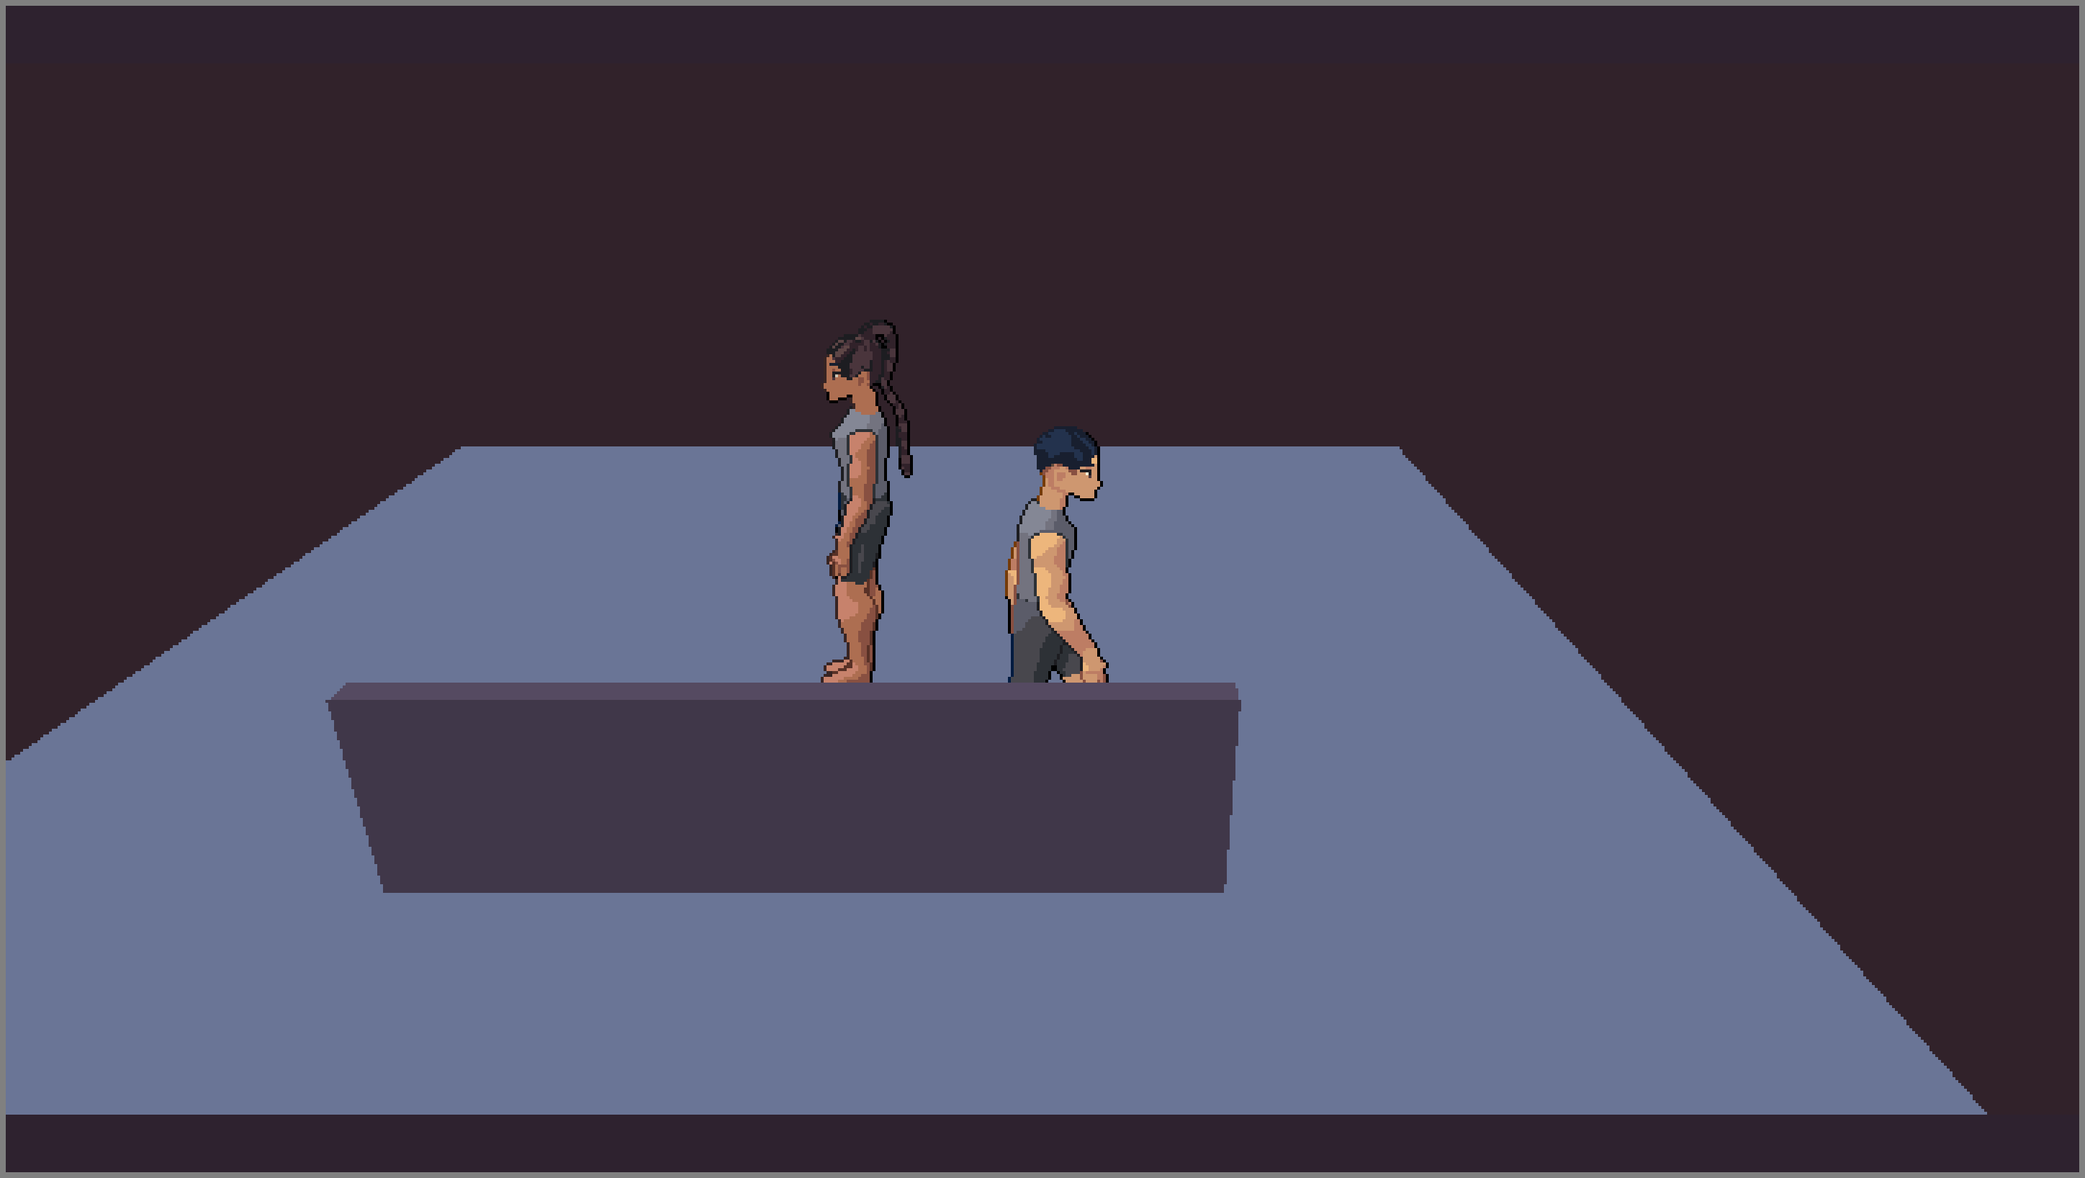
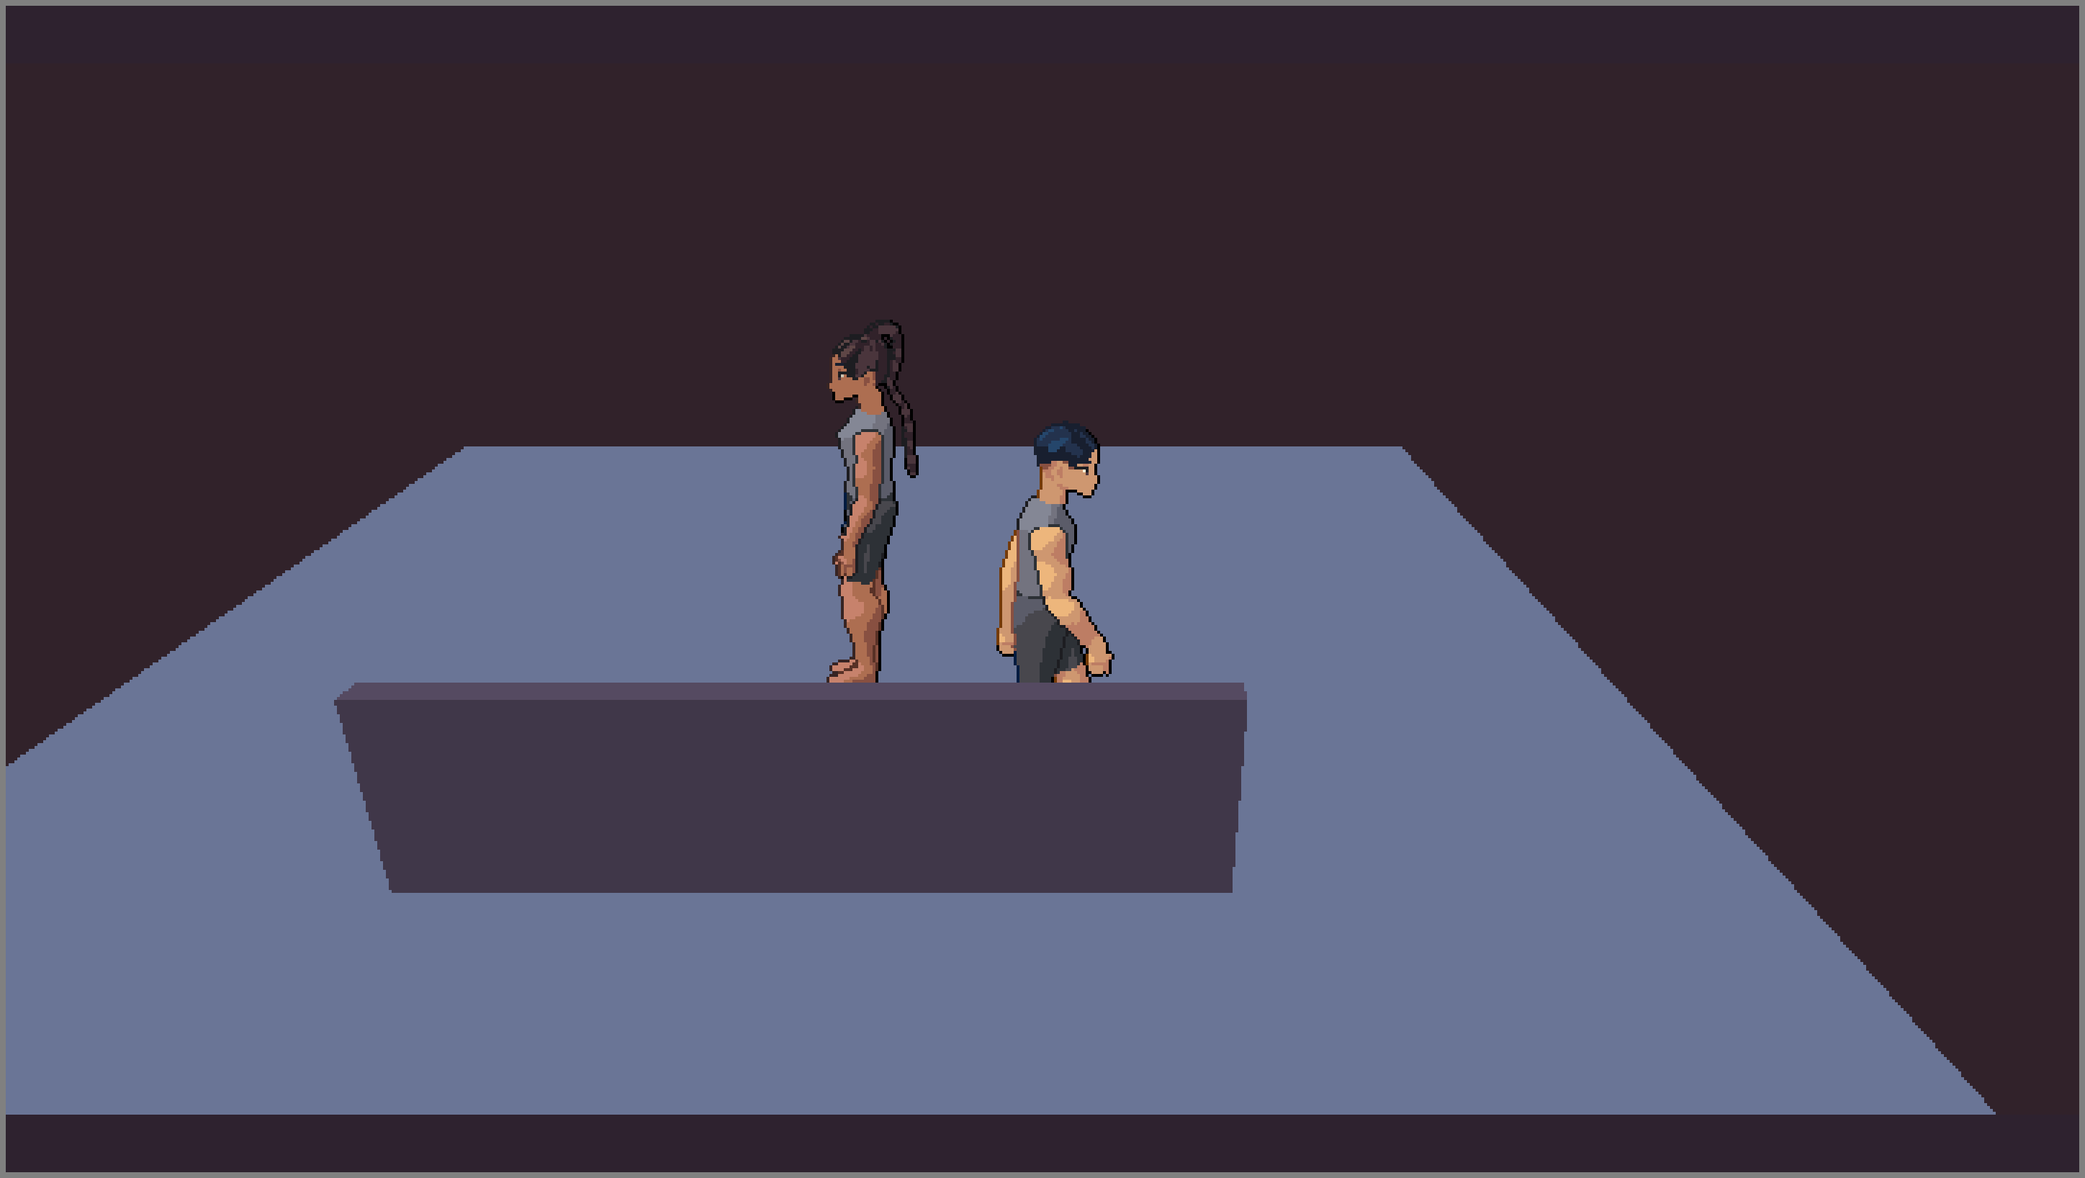
fix(character-kit): gate 1 compares the render with the builder's own idle cell, from the ground up
The stander is the builder's Figure standing idle, so which idle cell the first frame shows depends on the page's start. The gate now takes the best of 600 idle steps, counts the soles' texels the floor hides on their own line, and measures texels a pixel from the ground up (1.000). README, parity counts and header corrected from the artifacts.

Claude-Session: https://claude.ai/code/session_01HNdX7LQfcTAW3pQfTo5vEC

diff --git a/extensions/character-kit/scripts/gate.ts b/extensions/character-kit/scripts/gate.ts
@@ -2,7 +2,8 @@
 //
 //   pnpm --filter @automata/character-kit gate 1       gate 1: characterkit-painted before and after, texels a pixel, the
 //                                                      depth sheet (docs/refactor/c7/gate-1/)
-//   pnpm --filter @automata/character-kit gate runway  gate 2: the runway's stills, loop frames and timings (gate-2/)
+//   (gate 2, the runway's stills, loop frames and timings, is written with Task 10 of the plan, which is on hold: `gate runway`
+//   does not exist yet and asking for it throws)
 //
 // Gate 1's "before" is the commit this branch was cut from (BASE, the head of the figure-builder submodule branch), built in a
 // worktree of its own (`git worktree add`, then `pnpm install`: the builder's declarations are built at install and are
@@ -13,7 +14,14 @@ import { createReadStream, existsSync, mkdirSync, statSync, writeFileSync } from
 import { createServer } from 'node:http'
 import { extname, join } from 'node:path'
 import { type Browser, chromium, type Page } from 'playwright'
-import { BASE as FIGURES, member, standing } from '../src/shared/figure-builder/door.ts'
+import {
+  type CastMember,
+  cellOf,
+  BASE as FIGURES,
+  Figure,
+  member,
+  standing,
+} from '../src/shared/figure-builder/door.ts'
 
 const KIT = join(import.meta.dirname, '..')
 const REPO = join(KIT, '../..')
@@ -251,8 +259,8 @@ const crop = ({ width, rgba }: Frame, b: Box, pad: number): Frame => {
   return { width: w, height: h, rgba: out }
 }
 
-/** The painted rows of the builder's own cell, and its frame. */
-function cellRows(cell: Uint8ClampedArray, width: number): { rows: number; frame: Frame } {
+/** The painted rows of the builder's own cell, the first of them, and its frame. */
+function cellRows(cell: Uint8ClampedArray, width: number): { rows: number; first: number; frame: Frame } {
   const height = cell.length / 4 / width
   let [first, last] = [height, -1]
   for (let y = 0; y < height; y++) {
@@ -263,45 +271,148 @@ function cellRows(cell: Uint8ClampedArray, width: number): { rows: number; frame
       }
     }
   }
-  return { rows: last - first + 1, frame: { width, height, rgba: cell } }
+  return { rows: last - first + 1, first, frame: { width, height, rgba: cell } }
 }
 
-/** Of the stander's opaque texels, how many a render holds exactly one pixel each at the best offset near `box` (1 when the cell
- * is on the screen as the builder painted it). */
-function exactShare(render: Frame, cell: Frame, box: Box): number {
-  let best = 0
+/** How a render holds a cell the builder painted: the offset at which most of its opaque texels sit equal, one pixel each. */
+interface Match {
+  /** Opaque texels of the cell equal to the render's pixel under them, over all its opaque texels. */
+  share: number
+  same: number
+  opaque: number
+  /** Where the cell's top-left is in the render. */
+  ox: number
+  oy: number
+}
+
+/** The best offset for `cell` in `render` within `reach` pixels of `centre` (where the cell's painted texels would begin at the
+ * figure's `box`, when no centre is given). */
+function matchCell(
+  render: Frame,
+  cell: Frame,
+  box: Box,
+  centre?: readonly [number, number],
+  reach = 3,
+): Match {
   let opaque = 0
   for (let i = 3; i < cell.rgba.length; i += 4) if ((cell.rgba[i] ?? 0) > 0) opaque++
-  // Where the cell's top-left would be if its painted texels began at the figure's box, and a few pixels either way.
-  let [col, row] = [cell.width, cell.height]
-  for (let i = 0; i < cell.rgba.length / 4; i++) {
-    if ((cell.rgba[i * 4 + 3] ?? 0) === 0) continue
-    col = Math.min(col, i % cell.width)
-    row = Math.min(row, Math.floor(i / cell.width))
+  let [cx, cy] = centre ?? [0, 0]
+  if (centre === undefined) {
+    let [col, row] = [cell.width, cell.height]
+    for (let i = 0; i < cell.rgba.length / 4; i++) {
+      if ((cell.rgba[i * 4 + 3] ?? 0) === 0) continue
+      col = Math.min(col, i % cell.width)
+      row = Math.min(row, Math.floor(i / cell.width))
+    }
+    ;[cx, cy] = [box.x0 - col, box.y0 - row]
   }
-  for (let oy = box.y0 - row - 3; oy <= box.y0 - row + 3; oy++) {
-    for (let ox = box.x0 - col - 3; ox <= box.x0 - col + 3; ox++) {
-      let same = 0
-      for (let y = 0; y < cell.height; y++) {
-        for (let x = 0; x < cell.width; x++) {
-          const t = (y * cell.width + x) * 4
-          if ((cell.rgba[t + 3] ?? 0) === 0) continue
-          const px = ox + x
-          const py = oy + y
-          if (px < 0 || py < 0 || px >= render.width || py >= render.height) continue
-          const p = (py * render.width + px) * 4
-          if (
-            cell.rgba[t] === render.rgba[p] &&
-            cell.rgba[t + 1] === render.rgba[p + 1] &&
-            cell.rgba[t + 2] === render.rgba[p + 2]
-          )
-            same++
-        }
-      }
-      best = Math.max(best, same)
+  let best: Match = { share: 0, same: 0, opaque, ox: cx, oy: cy }
+  for (let oy = cy - reach; oy <= cy + reach; oy++) {
+    for (let ox = cx - reach; ox <= cx + reach; ox++) {
+      const same = countSame(render, cell, ox, oy, 0, cell.height)
+      if (same > best.same) best = { share: same / opaque, same, opaque, ox, oy }
     }
   }
-  return best / opaque
+  return best
+}
+
+/** Opaque texels of `cell` in rows `from` to `to` (exclusive) that equal the render's pixel under them at offset (`ox`, `oy`). */
+function countSame(render: Frame, cell: Frame, ox: number, oy: number, from: number, to: number): number {
+  let same = 0
+  for (let y = from; y < to; y++) {
+    for (let x = 0; x < cell.width; x++) {
+      const t = (y * cell.width + x) * 4
+      if ((cell.rgba[t + 3] ?? 0) === 0) continue
+      const [px, py] = [ox + x, oy + y]
+      if (px < 0 || py < 0 || px >= render.width || py >= render.height) continue
+      const p = (py * render.width + px) * 4
+      if (
+        cell.rgba[t] === render.rgba[p] &&
+        cell.rgba[t + 1] === render.rgba[p + 1] &&
+        cell.rgba[t + 2] === render.rgba[p + 2]
+      )
+        same++
+    }
+  }
+  return same
+}
+
+/** Idle steps tried: 10 s at the builder's own 1/60 s step, longer than any idle cycle shows a new pose in. */
+const IDLE_STEPS = 600
+
+/** The stander is the builder's `Figure` standing idle on the page's frame clock, and which idle step the first drawn frame
+ * lands on depends on how many 17 ms fake-clock steps the page took to start. So the render is compared with the builder's own
+ * idle cells, step by step, and the best is the one drawn for that frame: like for like, whatever the step. */
+function bestIdle(
+  cast: CastMember,
+  direction: number,
+  render: Frame,
+  box: Box,
+): { step: number; stepsAtBest: number; match: Match; cell: Frame; anchorY: number } {
+  const figure = new Figure(cast)
+  const view = { azimuth: 0, pitch: (18 * Math.PI) / 180 }
+  let best: { step: number; stepsAtBest: number; match: Match; cell: Frame; anchorY: number } | undefined
+  let centre: [number, number] | undefined
+  for (let step = 1; step <= IDLE_STEPS; step++) {
+    figure.update(1 / 60, { facing: (direction * Math.PI) / 4, moving: false, view })
+    const cell: Frame = { width: cast.cell[0], height: cast.cell[1], rgba: figure.painted.slice() }
+    // The first step finds the offset (a few pixels either way); the rest only look a pixel around it.
+    const match = matchCell(render, cell, box, centre, centre === undefined ? 3 : 1)
+    centre ??= [match.ox, match.oy]
+    if (best === undefined || match.share > best.match.share)
+      best = { step, stepsAtBest: 1, match, cell, anchorY: cellOf(figure).anchor[1] }
+    else if (match.share === best.match.share) best.stepsAtBest++
+  }
+  return best as NonNullable<typeof best>
+}
+
+/** The match of the stander's frame, read as the builder's contract has it: the ground is the cell's anchor row, and the room's
+ * floor (its top at the ground, nearer the camera than the soles' outline, which hangs a few centimetres below it) hides what is
+ * under it. Those texels are counted on their own line, and the texels a pixel are measured from the ground up, so the floor
+ * does not shorten the figure. */
+function groundReport(
+  render: Frame,
+  idle: ReturnType<typeof bestIdle>,
+  box: Box,
+  sheet: Match,
+): Record<string, unknown> {
+  const { cell, match, anchorY } = idle
+  // A texel row is under the ground when its middle is below the anchor.
+  const firstBelow = Math.floor(anchorY - 0.5) + 1
+  const { rows: paintedRows, first: firstPainted } = cellRows(cell.rgba, cell.width)
+  let belowOpaque = 0
+  for (let y = firstBelow; y < cell.height; y++)
+    for (let x = 0; x < cell.width; x++) if ((cell.rgba[(y * cell.width + x) * 4 + 3] ?? 0) > 0) belowOpaque++
+  const belowSame = countSame(render, cell, match.ox, match.oy, firstBelow, cell.height)
+  const aboveOpaque = match.opaque - belowOpaque
+  const aboveSame = match.same - belowSame
+  const rowsAbove = firstBelow - firstPainted
+  const pixelsAbove = match.oy + firstBelow - box.y0
+  return {
+    cellPaintedRows: paintedRows,
+    cellPitchDeg: 18,
+    // The whole figure, soles and all, the way the before side is measured.
+    texelsPerPixel: paintedRows / (box.y1 - box.y0 + 1),
+    // From the ground up: what the floor does not touch.
+    groundRow: anchorY,
+    cellRowsAboveGround: rowsAbove,
+    standerHeightAboveGroundPx: pixelsAbove,
+    texelsPerPixelAboveGround: rowsAbove / pixelsAbove,
+    // The builder's own idle cell this frame shows: the first step (of the builder's 1/60 s steps from standing still) that reaches
+    // the best share, and how many steps reach it (the idle moves slowly: a cell often holds for a few steps).
+    matchedIdleStep: idle.step,
+    matchedIdleSeconds: idle.step / 60,
+    idleStepsAtBest: idle.stepsAtBest,
+    opaqueTexels: match.opaque,
+    exactTexels: match.same,
+    exactTexelShare: match.share,
+    exactTexelShareAboveGround: aboveSame / aboveOpaque,
+    opaqueTexelsBelowGround: belowOpaque,
+    belowGroundTexelsSeen: belowSame,
+    belowGroundTexelsHiddenByFloor: belowOpaque - belowSame,
+    // For the record: the builder's `standing` cell (the idle's third step), the number the plan's log first gave.
+    exactTexelShareVsStanding: sheet.share,
+  }
 }
 
 async function gateOne(): Promise<void> {
@@ -339,20 +450,26 @@ async function gateOne(): Promise<void> {
         `${name}: expected two figures in the render, found ${boxes.length} ${JSON.stringify(boxes)}`,
       )
     const cast = member(woman, 2)
-    const { rows, frame: cell } = cellRows(standing(cast, 6, pitch), cast.cell[0])
     const heightPx = stander.y1 - stander.y0 + 1
-    measured[name] = {
+    const whole = {
       field: [frame.width, frame.height],
       figuresFound: boxes.length,
       standerBox: stander,
       standerHeightPx: heightPx,
-      cellPaintedRows: rows,
-      cellPitchDeg: pitch === undefined ? 18 : (pitch * 180) / Math.PI,
-      texelsPerPixel: rows / heightPx,
-      ...(name === 'after' ? { exactTexelShare: exactShare(frame, cell, stander) } : {}),
     }
     crops.push(crop(frame, stander, 6))
-    if (name === 'after') crops.push(cell)
+    if (name === 'before') {
+      // Whole figure, soles and all: the base tree has no floor to hide them, and no like-for-like cell to find (it minifies).
+      const { rows } = cellRows(standing(cast, 6, pitch), cast.cell[0])
+      measured[name] = { ...whole, cellPaintedRows: rows, cellPitchDeg: 25, texelsPerPixel: rows / heightPx }
+      continue
+    }
+    // The stander is the woman facing the camera's bearing: the builder's direction 6. The cell compared is the builder's own idle
+    // cell that this render's frame shows (bestIdle), and `standing` is the sheet's third idle step, kept for the record.
+    const idle = bestIdle(cast, 6, frame, stander)
+    const sheet = matchCell(frame, cellRows(standing(cast, 6), cast.cell[0]).frame, stander)
+    measured[name] = { ...whole, ...groundReport(frame, idle, stander, sheet) }
+    crops.push(idle.cell)
   }
   const [before, after, cell] = crops
   writeFileSync(
@@ -381,6 +498,15 @@ async function gateOne(): Promise<void> {
     },
   )
   if (sheets.status !== 0) throw new Error('the depth sheet failed')
+  // The records are committed, and the repo's formatter owns JSON: leave them the way a commit would.
+  spawnSync(
+    'pnpm',
+    ['exec', 'biome', 'format', '--write', join(out, 'measurements.json'), join(out, 'parity.json')],
+    {
+      cwd: REPO,
+      stdio: 'inherit',
+    },
+  )
 }
 
 const which = process.argv[2] ?? '1'

diff --git a/docs/refactor/c7/gate-1/README.md b/docs/refactor/c7/gate-1/README.md
@@ -7,7 +7,9 @@ this before the fashion work (tasks 6 to 8) goes on.
 Before is `a66b4e0e` (the head of `claude/figurebuilder-submodule`, which this branch was cut from), built in a worktree of its own;
 after is this branch. Both ran in Chromium under Playwright's fake clock with `reducedMotion: 'reduce'`, the viewport the field's own size
 so the letterbox's upscale is ×1 and the canvas holds the field's pixels, and the readback taken 33 ms of fake time after the
-first frame that shows the figures: the same sim tick (the first ticks of the walker's loop) on both sides.
+first frame that shows the figures. That is the walker's loop at the same tick on both sides, but not the stander's idle at the same
+step: she is the builder's `Figure` standing idle on the page's frame clock, and how many 17 ms fake-clock steps the page took to
+start is not fixed, so the gate finds the idle cell the render shows (below) instead of assuming one.
 
 ## The picture
 
@@ -25,13 +27,38 @@ first frame that shows the figures: the same sim tick (the first ticks of the wa
 
 | | painted rows of her cell | her height in pixels | texels a pixel |
 |---|---|---|---|
-| before (480 × 270, cell painted at the camera's 25°) | 123 | 69 | 1.78 |
-| after (720 × 405, cell painted at the painter's 18°) | 128 | 126 | 1.016 |
+| before (480 × 270, cell painted at the camera's 25°), whole figure | 123 | 69 | 1.78 |
+| after (720 × 405, cell painted at the painter's 18°), whole figure | 128 | 126 | 1.016 |
+| after, from the ground up (the anchor row, 178.5, to her top) | 125 | 125 | 1.000 |
+
+The three rows of her cell under the ground line (128 painted, 125 above it) are the soles' outline, and the room's floor (its top at
+the ground) is nearer the camera than they are, so it hides most of them: that is the depth rule at work (the builder's contract, section 4b),
+not a painter mismatch. Measured from the ground up the floor does not shorten her, and a texel is exactly a pixel. The before row
+measures the whole figure (there is no like-for-like cell to find in a minified render, so no ground is located in it).
 
 Before, a texel was minified: nearly two texels went into each pixel, so texels dropped out (the jagged outline of the left tile).
-After, a texel is a pixel: the figure is the builder's cell as it paints it. Of her 128-row cell, 99% of the opaque
-texels equal the builder's own `standing` cell pixel for pixel at the best offset (the rest is the idle pose's blink and hair at a
-different moment than the sheet's three steps). The unit test `painted-scale` gives the same from `zoomOf`: 0.67 a pixel at 480 × 270,
+After, a texel is a pixel: the figure is the builder's cell as it paints it.
+
+### Her cell against the builder's own
+
+She is drawn by the builder's `Figure` standing idle, so the cell the first drawn frame shows is one of the idle's cells, which move
+with the figure's own clock (breath, weight shift). The gate compares the render with each of the builder's idle cells (600 steps of
+1/60 s from standing still) at the best offset and takes the best, so the comparison is like for like at whatever step the frame
+landed on. In `measurements.json` (`after`):
+
+| | texels | share |
+|---|---|---|
+| opaque texels of the best idle cell (first step: 1, of 4 steps at this share; the sheet's `standing` is step 3) | 2354 | |
+| equal to the render's pixel, one pixel each, at the best offset | 2327 | 98.85% |
+| of those, below the ground line | 45 | |
+| below the ground line, seen | 18 | |
+| below the ground line, hidden by the floor | 27 | |
+| **above the ground line: equal to the render** | all of them | **100%** |
+
+So the 98.85% is not the painter: every texel above the ground is the builder's to the byte, and the 27 that differ are the soles
+under the floor. (The plan's log gave 91% and an earlier version of this README 99%: the render against the sheet's `standing` cell, which is one
+idle step, so the number depends on which step the frame landed on. This run's `standing` share, `exactTexelShareVsStanding`, equals
+the best.) The unit test `painted-scale` gives the same from `zoomOf`: 0.67 a pixel at 480 × 270,
 0.90 at 640 × 360, 1.01 at 720 × 405 (the coordinator's ruling, never minified).
 
 ## Parity with the builder's `compose` (the depth sheet)
@@ -44,11 +71,11 @@ frame, and red where they differ (the sheets are all dark, so none). Counts, in 
 | one figure, orthographic at 18° | 230400 | 0 |
 | one figure, perspective (the follow view) | 230400 | 0 |
 | two overlapping figures | 230400 | 0 |
-| a figure cut by a wall | 230400 | 0 |
+| a figure cut by a wall | 228480 | 0 |
 
 Case 3 is two overlapping figures (the nearer in front, the other's body behind her arm); case 4 a figure cut by a thin wall whose front face
 is 5 cm in front of the figure's root plane, so some of her stands in front of the wall and the rest behind it, by texel (a pixel either side
-of the cut line is not compared, where two surfaces cross). The same cases run as tests in `tests/browser/painted/painted-depth.test.ts`, which a
+of the cut line, 3 rows of 640, is not compared, where two surfaces cross). The same cases run as tests in `tests/browser/painted/painted-depth.test.ts`, which a
 flat-depth mutation fails (cases 3 and 4).
 
 ## What changed, and why
@@ -62,5 +89,7 @@ flat-depth mutation fails (cases 3 and 4).
 
 ## What ran, and what did not
 
-- Ran (Chromium, this container's software WebGL): the kit's unit suite, its browser suite (3 files, 46 tests, 1 skipped), `characterkit-painted`'s journey (examples-3d project).
-- Not run: WebKit and Firefox (neither can be installed in this container), the WebGPU case (no adapter here), the GPU runner: pending for CI.
+- Ran (Chromium, this container's software WebGL): the gate, `pnpm --filter @automata/character-kit gate 1`.
+- Ran (Chromium and WebKit 26.6, this container): the kit's browser suite (3 files, 46 tests, 2 skipped: WebGPU has no adapter here, and
+  the gate-sheet case runs only under the gate), and `characterkit-painted`'s journey.
+- Not run: Firefox (headless Firefox has no WebGL here), the WebGPU case, the GPU runner: pending for CI.
